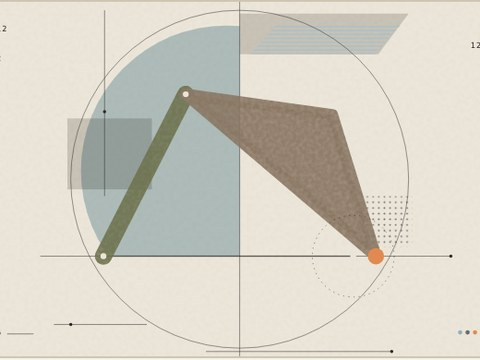
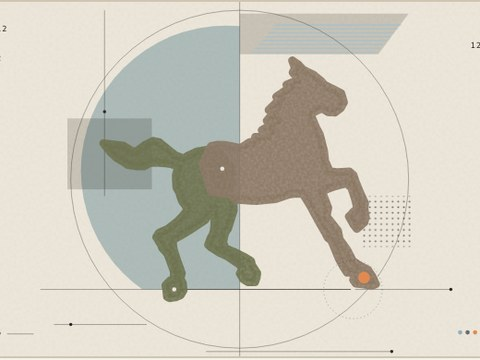
Linkages: restore horse silhouette card and thumbnail
Claude-Session: https://claude.ai/code/session_01NPfPdtJwC2J2tRpUdWuEC5

Changed region(s): [[0.0938, 0.1528, 0.9375, 0.8556], [0.9062, 0.7944, 0.9375, 0.825], [0.2188, 0.7944, 0.25, 0.825]]

diff --git a/projects/linkage/index.html b/projects/linkage/index.html
@@ -672,7 +672,7 @@ svg.plate.tone .r-cush { display: inline; }
     <a href="ornithopter/"><svg class="glyph" data-no="009" data-l="O / R / N" data-c="-1.350,-0.456" data-r="17.006" data-ay="6.300" viewBox="-29.921 -18.313 57.142 35.713" aria-hidden="true"><path d="M-1.350 6.300L-4.050 -0.900" class="k-bar k-base"/><path d="M-1.350 4.500L-1.350 -4.456" class="k-bar" style="stroke-width:.75"/><path d="M1.350 -0.900L1.350 -2.700" class="k-bar" style="stroke-width:.75"/><path d="M-4.050 -0.900L-4.050 -2.700" class="k-bar" style="stroke-width:.75"/><path d="M-1.082 -4.895L-1.129 -4.920L-1.178 -4.941L-1.229 -4.955L-1.282 -4.965L-1.335 -4.970L-1.388 -4.969L-1.441 -4.963L-1.493 -4.950L-1.544 -4.933L-1.591 -4.910L-1.637 -4.883L-1.680 -4.850L-1.719 -4.814L-1.754 -4.774L-1.785 -4.730L-1.811 -4.684L-1.832 -4.635L-1.849 -4.584L-1.859 -4.532L-1.864 -4.478L-1.863 -4.425L-1.858 -4.372L-1.846 -4.320L-1.830 -4.270L-1.807 -4.221L-1.780 -4.174L-1.749 -4.131L-1.714 -4.091L-1.674 -4.056L-1.631 -4.025L1.069 -2.269L1.085 -2.259L10.085 3.141L10.133 3.166L10.183 3.186L10.234 3.201L10.287 3.210L10.341 3.214L10.394 3.212L10.447 3.205L10.499 3.192L10.550 3.173L10.598 3.150L10.644 3.122L10.687 3.089L10.725 3.052L10.759 3.011L10.790 2.966L10.815 2.920L10.836 2.869L10.850 2.818L10.860 2.765L10.864 2.712L10.863 2.658L10.856 2.605L10.842 2.552L10.824 2.502L10.802 2.453L10.773 2.408L10.741 2.365L10.704 2.326L10.662 2.291L10.618 2.261Z" class="k-tri"/><path d="M-13.318 2.261L-13.362 2.291L-13.404 2.327L-13.441 2.365L-13.473 2.407L-13.502 2.453L-13.524 2.502L-13.542 2.552L-13.556 2.605L-13.563 2.658L-13.564 2.712L-13.560 2.765L-13.550 2.818L-13.536 2.869L-13.515 2.920L-13.490 2.966L-13.460 3.010L-13.425 3.052L-13.387 3.089L-13.344 3.122L-13.298 3.150L-13.250 3.173L-13.199 3.192L-13.147 3.205L-13.094 3.212L-13.041 3.214L-12.987 3.210L-12.934 3.201L-12.883 3.186L-12.833 3.166L-12.785 3.141L-3.785 -2.259L-3.769 -2.269L-1.069 -4.025L-1.026 -4.056L-0.986 -4.091L-0.951 -4.131L-0.920 -4.174L-0.893 -4.221L-0.870 -4.270L-0.854 -4.320L-0.842 -4.372L-0.837 -4.425L-0.836 -4.478L-0.841 -4.532L-0.851 -4.584L-0.868 -4.635L-0.889 -4.684L-0.915 -4.730L-0.946 -4.774L-0.981 -4.814L-1.020 -4.850L-1.063 -4.883L-1.109 -4.910L-1.157 -4.933L-1.207 -4.950L-1.259 -4.963L-1.312 -4.969L-1.365 -4.970L-1.418 -4.965L-1.471 -4.955L-1.522 -4.941L-1.571 -4.920L-1.618 -4.895Z" class="k-tri"/><circle cx="-1.350" cy="6.300" r="2.600" class="k-disc"/><circle cx="-1.350" cy="6.300" r=".13" class="s-fixed"/><circle cx="4.050" cy="6.300" r=".13" class="s-fixed"/><circle cx="-1.350" cy="-6.300" r=".13" class="s-fixed"/><circle cx="-1.350" cy="0.900" r=".13" class="s-fixed"/><circle cx="1.350" cy="-0.900" r=".13" class="s-fixed"/><circle cx="-4.050" cy="-0.900" r=".13" class="s-fixed"/><circle cx="-1.350" cy="-4.456" r=".13" class="s-joint"/><circle cx="-1.350" cy="4.500" r=".36" class="s-joint pl-accent"/><circle cx="1.350" cy="-2.700" r=".13" class="s-joint"/><circle cx="-4.050" cy="-2.700" r=".13" class="s-joint"/></svg><b>撲翼機</b><small>Ornithopter</small><p>曲柄推滑塊，兩片翅膀被短桿拉住，像鳥一樣一起上下拍。</p><span class="meta">9 · 曲柄滑塊 + 2 組四連桿 · 7 片 · 圖釘 10 支</span></a>
     <a href="iris/"><svg class="glyph" data-no="010" data-l="I / R / S" data-c="-0.436,1.993" data-r="7.031" data-ay="6.544" viewBox="-12.249 -5.389 23.626 14.766" aria-hidden="true"><path d="M0.000 0.000L-3.003 6.544" class="k-bar k-base"/><path d="M-1.029 1.226L-3.413 -2.706" class="k-bar" style="stroke-width:.75"/><path d="M-3.727 -1.390L-3.355 -1.741L-3.327 -1.840L-3.590 -2.234L-3.739 -2.333L-3.856 -2.484L-3.904 -2.773L-3.517 -3.922L-3.388 -4.070L-3.212 -4.156L-3.022 -4.169L-2.841 -4.108L-2.642 -3.897L-2.594 -3.613L-2.798 -2.938L-2.762 -2.869L-2.470 -2.633L-2.382 -2.657L-1.978 -3.038L-1.718 -3.423L-1.414 -3.769L-1.074 -4.067L-0.692 -4.323L-0.278 -4.527L0.157 -4.675L0.608 -4.766L1.067 -4.797L1.527 -4.767L1.978 -4.678L2.414 -4.530L2.828 -4.327L3.211 -4.072L3.558 -3.769L3.862 -3.423L4.120 -3.037L1.314 -1.137Z" class="k-tri"/><path d="M1.576 0.278L-0.637 4.309" class="k-bar" style="stroke-width:.75"/><path d="M-4.690 -2.050L-1.642 -0.570L0.659 3.923L0.170 3.777L0.071 3.802L-0.138 4.226L-0.178 4.498L-0.361 4.721L-0.542 4.796L-1.547 4.997L-1.738 4.997L-1.918 4.922L-2.054 4.786L-2.128 4.608L-2.128 4.414L-2.056 4.238L-1.832 4.053L-1.145 3.891L-1.037 3.526L-1.062 3.426L-1.642 3.231L-2.105 3.200L-2.557 3.109L-2.985 2.964L-3.398 2.761L-3.782 2.506L-4.127 2.202L-4.432 1.857L-4.688 1.474L-4.892 1.061L-5.040 0.626L-5.130 0.174L-5.162 -0.286L-5.131 -0.745L-5.042 -1.197L-4.895 -1.633Z" class="k-tri"/><path d="M-0.547 -1.503L4.050 -1.602" class="k-bar" style="stroke-width:.75"/><path d="M0.328 1.706L3.067 -2.533L3.226 -1.978L3.302 -1.954L3.510 -1.998L3.718 -1.990L3.988 -2.094L4.269 -2.047L4.425 -1.928L5.156 -1.082L5.222 -0.805L5.172 -0.615L4.978 -0.406L4.793 -0.342L4.600 -0.354L4.426 -0.440L3.943 -0.954L3.572 -0.864L3.502 -0.803L3.615 -0.207L3.824 0.223L3.969 0.651L4.059 1.103L4.090 1.570L4.059 2.030L3.971 2.474L3.821 2.917L3.616 3.330L3.365 3.706L3.056 4.058L2.716 4.357L2.334 4.613L1.921 4.817L1.485 4.965L1.034 5.055L0.570 5.086Z" class="k-tri"/><path d="M-1.883 6.544L-5.600 0.000" class="k-bar" style="stroke-width:.75"/><path d="M-5.710 0.550L-5.996 0.396L-6.150 0.110L-6.150 -0.110L-6.066 -0.311L-5.814 -0.518L-5.600 -0.560L-2.002 -0.560L-1.922 -0.796L-1.730 -1.155L-1.319 -1.608L-0.796 -1.922L-0.204 -2.070L0.204 -2.070L0.604 -1.990L0.981 -1.834L1.319 -1.608L1.608 -1.319L1.834 -0.981L1.990 -0.604L2.070 -0.204L2.070 0.204L1.990 0.604L1.834 0.981L1.608 1.319L1.319 1.608L0.981 1.834L0.604 1.990L0.204 2.070L-0.204 2.070L-0.604 1.990L-1.155 1.730L-1.470 1.470L-1.730 1.155L-1.922 0.796L-2.002 0.560Z" class="k-tri"/><circle cx="-3.003" cy="6.544" r="1.920" class="k-disc"/><circle cx="0.000" cy="0.000" r=".13" class="s-fixed"/><circle cx="-3.086" cy="-3.677" r=".13" class="s-fixed"/><circle cx="-3.413" cy="-2.706" r=".13" class="s-joint"/><circle cx="-1.029" cy="1.226" r=".13" class="s-joint"/><circle cx="-1.642" cy="4.510" r=".13" class="s-fixed"/><circle cx="-0.637" cy="4.309" r=".13" class="s-joint"/><circle cx="1.576" cy="0.278" r=".13" class="s-joint"/><circle cx="4.727" cy="-0.834" r=".13" class="s-fixed"/><circle cx="4.050" cy="-1.602" r=".13" class="s-joint"/><circle cx="-0.547" cy="-1.503" r=".13" class="s-joint"/><circle cx="-5.600" cy="0.000" r=".13" class="s-joint"/><circle cx="-3.003" cy="6.544" r=".13" class="s-fixed"/><circle cx="-1.883" cy="6.544" r=".36" class="s-joint pl-accent"/></svg><b>光圈</b><small>Iris</small><p>推桿帶動光圈環，三片葉片一起把中間的洞關上、再打開。</p><span class="meta">10 · 曲柄搖桿 + 光圈環 · 10 片 · 圖釘 13 支</span></a>
     <a href="crab/"><svg class="glyph" data-no="011" data-l="C / R / B" data-c="-0.322,-0.018" data-r="17.098" data-ay="2.012" viewBox="-29.047 -17.971 57.450 35.906" aria-hidden="true"><path d="M0.363 2.012L7.327 1.499" class="k-bar k-base"/><path d="M-7.063 -0.736L-7.188 -0.865L-7.247 -0.970L-7.291 -1.144L-7.279 -1.324L-7.239 -1.437L-7.139 -1.586L-6.996 -1.696L-6.827 -1.757L-6.647 -1.762L-6.475 -1.710L-5.352 -1.023L0.761 3.662L0.870 3.803L0.929 3.971L0.939 4.089L0.924 4.207L0.857 4.372L0.786 4.467L0.696 4.545L0.536 4.623L0.420 4.646L0.301 4.644L0.185 4.618L0.077 4.569Z" class="k-tri pl-p4"/><path d="M6.971 -1.585L7.129 -1.669L7.246 -1.695L7.365 -1.697L7.483 -1.674L7.592 -1.627L7.690 -1.558L7.771 -1.471L7.833 -1.368L7.871 -1.255L7.883 -1.077L7.839 -0.903L7.781 -0.799L7.703 -0.709L0.661 4.568L0.553 4.618L0.436 4.644L0.257 4.638L0.090 4.576L-0.051 4.466L-0.123 4.370L-0.173 4.262L-0.199 4.145L-0.201 4.026L-0.178 3.908L-0.131 3.799L-0.021 3.658Z" class="k-tri pl-p4"/><path d="M-5.264 -0.115L-5.185 -0.205L-5.127 -0.309L-5.082 -0.482L-5.083 -0.602L-5.110 -0.718L-5.193 -0.877L-5.273 -0.965L-5.371 -1.034L-5.539 -1.096L-5.717 -1.104L-5.834 -1.077L-5.942 -1.028L-6.038 -0.956L-7.756 0.629L-7.851 0.780L-7.896 0.953L-7.885 1.132L-7.819 1.298L-7.705 1.436L-7.607 1.505L-7.497 1.552L-7.380 1.576L-7.261 1.575L-7.144 1.548L-7.036 1.499L-6.940 1.427Z" class="k-tri pl-p0"/><path d="M7.762 1.129L7.830 1.227L7.875 1.338L7.898 1.515L7.882 1.633L7.842 1.746L7.741 1.893L7.599 2.002L7.430 2.061L7.251 2.065L7.135 2.037L7.028 1.986L6.892 1.869L5.485 0.212L5.409 0.050L5.386 -0.127L5.402 -0.245L5.470 -0.411L5.543 -0.505L5.634 -0.583L5.739 -0.639L5.854 -0.673L6.033 -0.677L6.149 -0.649L6.256 -0.598L6.392 -0.481Z" class="k-tri pl-p0"/><path d="M-2.031 -6.927L-2.076 -7.038L-2.144 -7.136L-2.279 -7.253L-2.444 -7.322L-2.562 -7.338L-2.682 -7.329L-2.796 -7.296L-2.902 -7.239L-2.993 -7.162L-3.066 -7.068L-3.135 -6.903L-3.151 -6.784L-3.142 -6.665L-1.709 -1.750L-1.652 -1.644L-1.575 -1.553L-1.428 -1.451L-1.257 -1.400L-1.078 -1.404L-0.963 -1.437L-0.858 -1.494L-0.767 -1.571L-0.694 -1.665L-0.625 -1.830L-0.609 -1.949L-0.618 -2.068Z" class="k-tri pl-p2"/><path d="M1.308 -5.364L1.344 -5.563L1.959 -7.193L2.047 -7.347L2.130 -7.431L2.228 -7.497L2.338 -7.541L2.455 -7.561L2.632 -7.546L2.743 -7.505L2.844 -7.443L2.966 -7.314L3.022 -7.210L3.064 -7.037L3.061 -6.919L2.427 -1.940L2.377 -1.769L2.278 -1.622L2.137 -1.512L1.970 -1.451L1.852 -1.440L1.734 -1.454L1.621 -1.493L1.519 -1.553L1.432 -1.634L1.363 -1.730L1.300 -1.897L1.288 -2.015Z" class="k-tri pl-p2"/><path d="M-7.948 4.984L-8.069 5.117L-8.170 5.182L-8.282 5.224L-8.461 5.241L-8.637 5.202L-8.792 5.110L-8.910 4.975L-8.981 4.809L-8.996 4.630L-8.975 4.512L-7.271 -1.355L-7.200 -1.509L-7.086 -1.635L-2.392 -5.516L-2.229 -5.591L-2.110 -5.610L-1.932 -5.593L-1.767 -5.521L-1.673 -5.445L-1.598 -5.352L-1.543 -5.245L-1.512 -5.130L-1.505 -5.010L-1.524 -4.891L-1.598 -4.727Z" class="k-tri pl-p1"/><path d="M7.665 -1.579L7.784 -1.452L7.860 -1.296L9.620 4.451L9.631 4.570L9.617 4.688L9.578 4.800L9.518 4.902L9.437 4.990L9.340 5.059L9.174 5.121L8.996 5.129L8.880 5.104L8.722 5.022L8.596 4.896L1.416 -5.026L1.335 -5.187L1.308 -5.366L1.321 -5.486L1.388 -5.654L1.461 -5.751L1.552 -5.830L1.658 -5.888L1.774 -5.923L1.894 -5.932L2.014 -5.916L2.181 -5.847Z" class="k-tri pl-p1"/><circle cx="0.363" cy="2.012" r="2.865" class="k-disc"/><circle cx="0.363" cy="2.012" r=".13" class="s-fixed"/><circle cx="1.860" cy="-2.012" r=".13" class="s-fixed"/><circle cx="-1.180" cy="-1.966" r=".13" class="s-fixed"/><circle cx="-7.327" cy="1.007" r=".13" class="s-fixed"/><circle cx="7.327" cy="1.499" r=".13" class="s-fixed"/><circle cx="0.368" cy="4.077" r=".36" class="s-joint pl-accent"/><circle cx="5.957" cy="-0.111" r=".13" class="s-joint"/><circle cx="-5.651" cy="-0.536" r=".13" class="s-joint"/><circle cx="-2.076" cy="-5.040" r=".13" class="s-joint"/><circle cx="1.879" cy="-5.361" r=".13" class="s-joint"/><circle cx="-6.722" cy="-1.195" r=".13" class="s-joint"/><circle cx="7.314" cy="-1.128" r=".13" class="s-joint"/></svg><b>螃蟹</b><small>Crab</small><p>一個曲柄、左右兩組六連桿，兩隻大螯揮動，眼柄跟著擺。</p><span class="meta">11 · 2 組六連桿 · 10 片 · 圖釘 12 支</span></a>
-    <a href="../horse-linkage/"><svg class="glyph" data-no="012" data-l="H / R / S" data-c="6.000,-3.390" data-r="7.440" data-ay="0.000" viewBox="-6.499 -11.202 24.998 15.624" aria-hidden="true"><path d="M0.000 0.000L11.000 0.000" class="k-bar k-base"/><path d="M0.000 0.000L3.625 -7.132" class="k-bar" style="stroke-width:.75"/><path d="M3.625 -7.132L12.000 0.000L10.082 -6.231Z" class="k-tri"/><circle cx="11.000" cy="0.000" r="1.800" class="k-disc"/><circle cx="0.000" cy="0.000" r=".13" class="s-fixed"/><circle cx="11.000" cy="0.000" r=".13" class="s-fixed"/><circle cx="12.000" cy="0.000" r=".36" class="s-joint pl-accent"/><circle cx="3.625" cy="-7.132" r=".13" class="s-joint"/></svg><b>壢馬連桿</b><small>Horse Linkage</small><p>校園銅馬跑起來。一組四連桿，前後半身一前一後擺動。</p><span class="meta">12 · 1 組四連桿 · 4 片 · 圖釘 4 支</span></a>
+    <a href="../horse-linkage/"><svg class="glyph" data-no="012" data-l="H / R / S" data-c="4.029,-6.782" data-r="10.397" data-ay="-0.000" viewBox="-13.438 -17.699 34.933 21.833" aria-hidden="true"><path d="M0.000 0.000L11.000 -0.000" class="k-bar k-base"/><path d="M-0.269 0.528L-0.437 0.462L-0.496 -0.058L-0.535 -0.253L-0.234 -0.565L-0.058 -0.582L-0.015 -0.776L-0.023 -1.129L-0.179 -1.562L-0.422 -2.208L-0.736 -2.549L-0.823 -2.773L-0.827 -2.773L-1.101 -3.221L-0.942 -3.485L-0.392 -3.723L0.225 -4.213L0.467 -4.463L0.686 -4.733L0.805 -4.966L0.645 -5.233L0.513 -5.379L0.393 -5.680L0.313 -5.962L0.141 -6.260L0.112 -6.750L0.104 -7.047L0.207 -7.382L0.218 -7.547L-0.215 -7.726L-0.525 -7.769L-1.164 -7.812L-1.501 -7.781L-1.858 -7.585L-2.278 -7.580L-2.859 -7.668L-3.094 -7.838L-3.531 -8.088L-3.900 -8.425L-4.356 -8.993L-3.125 -8.842L-2.527 -8.468L-2.235 -8.558L-1.754 -8.915L-1.296 -9.138L-0.942 -9.067L-0.500 -8.714L0.051 -8.265L0.597 -8.052L0.813 -8.209L1.422 -8.492L2.113 -8.606L2.835 -8.373L3.515 -7.491L3.533 -6.517L3.285 -6.040L3.642 -5.569L3.655 -4.851L3.303 -3.722L3.262 -3.726L3.105 -3.396L3.002 -2.879L3.157 -2.535L3.721 -2.291L4.325 -1.991L4.723 -1.744L4.783 -1.500L5.099 -1.001L5.064 -0.706L4.975 -0.452L4.532 -0.455L4.250 -0.626L4.041 -0.981L4.195 -1.306L4.012 -1.529L3.310 -2.012L2.784 -2.257L2.276 -2.579L2.094 -2.741L2.254 -3.186L2.371 -3.373L2.445 -3.641L2.471 -3.928L2.492 -4.565L2.442 -5.065L2.302 -4.820L1.895 -4.272L1.214 -3.810L0.354 -3.286L-0.005 -3.090L-0.090 -2.914L-0.045 -2.503L0.158 -1.848L0.462 -0.995L0.379 -0.677L0.526 -0.386L0.567 0.061L0.400 0.343L0.094 0.471Z" class="k-tri"/><path d="M2.271 -8.824L1.732 -7.732L2.272 -6.005L3.380 -5.877L3.753 -5.541L5.065 -5.443L6.235 -5.560L6.987 -5.825L7.449 -5.904L7.917 -5.892L8.365 -5.168L8.842 -4.279L9.276 -3.518L9.442 -3.191L9.655 -3.034L9.890 -2.486L10.127 -1.901L10.415 -1.374L10.639 -1.032L10.972 -1.086L11.091 -0.962L11.017 -0.584L11.178 -0.369L11.686 -0.303L12.156 -0.234L12.413 -0.322L12.181 -0.813L11.917 -1.210L11.361 -1.499L10.993 -1.760L10.619 -2.468L10.176 -3.080L10.073 -3.616L9.371 -4.513L9.475 -5.022L9.193 -5.773L9.140 -6.068L9.909 -6.352L10.608 -6.538L10.904 -6.255L11.125 -5.594L11.220 -5.207L11.231 -5.040L11.271 -4.969L11.055 -4.807L10.879 -4.610L10.754 -4.492L11.064 -3.949L11.243 -3.734L11.700 -4.128L11.784 -4.454L11.700 -4.972L11.739 -5.310L11.507 -5.802L11.164 -6.623L11.031 -7.028L10.776 -7.257L10.089 -7.203L9.505 -7.283L9.497 -7.432L9.285 -7.907L9.215 -8.538L9.098 -8.979L8.957 -9.532L8.728 -9.968L8.430 -10.663L8.549 -10.892L9.005 -11.104L9.153 -11.111L9.482 -10.904L9.668 -10.914L9.894 -10.889L10.252 -11.169L10.439 -11.515L10.277 -12.063L9.819 -12.305L9.243 -12.591L9.044 -12.823L8.576 -13.210L8.288 -13.344L7.925 -13.531L7.666 -13.815L7.260 -14.093L7.434 -13.616L7.299 -13.348L7.478 -13.133L7.585 -12.877L6.908 -12.598L7.235 -12.429L6.797 -12.219L6.283 -11.852L6.636 -11.763L6.275 -11.500L5.814 -11.047L6.384 -11.226L6.086 -10.856L5.700 -10.386L6.372 -10.385L5.390 -9.802L5.883 -9.763L6.082 -9.867L5.770 -9.421L5.378 -9.399L4.987 -9.378L4.875 -9.017L4.630 -9.060L4.090 -8.696L3.561 -8.799L3.109 -8.886L2.679 -8.901Z" class="k-tri"/><circle cx="11.000" cy="-0.000" r="1.800" class="k-disc"/><circle cx="0.000" cy="0.000" r=".13" class="s-fixed"/><circle cx="11.000" cy="-0.000" r=".13" class="s-fixed"/><circle cx="2.959" cy="-7.433" r=".13" class="s-joint"/><circle cx="11.682" cy="-0.731" r=".36" class="s-joint pl-accent"/></svg><b>壢馬連桿</b><small>Horse Linkage</small><p>校園銅馬跑起來。一組四連桿，前後半身一前一後擺動。</p><span class="meta">12 · 1 組四連桿 · 4 片 · 圖釘 4 支</span></a>
   </div>
 
   <section class="text">
